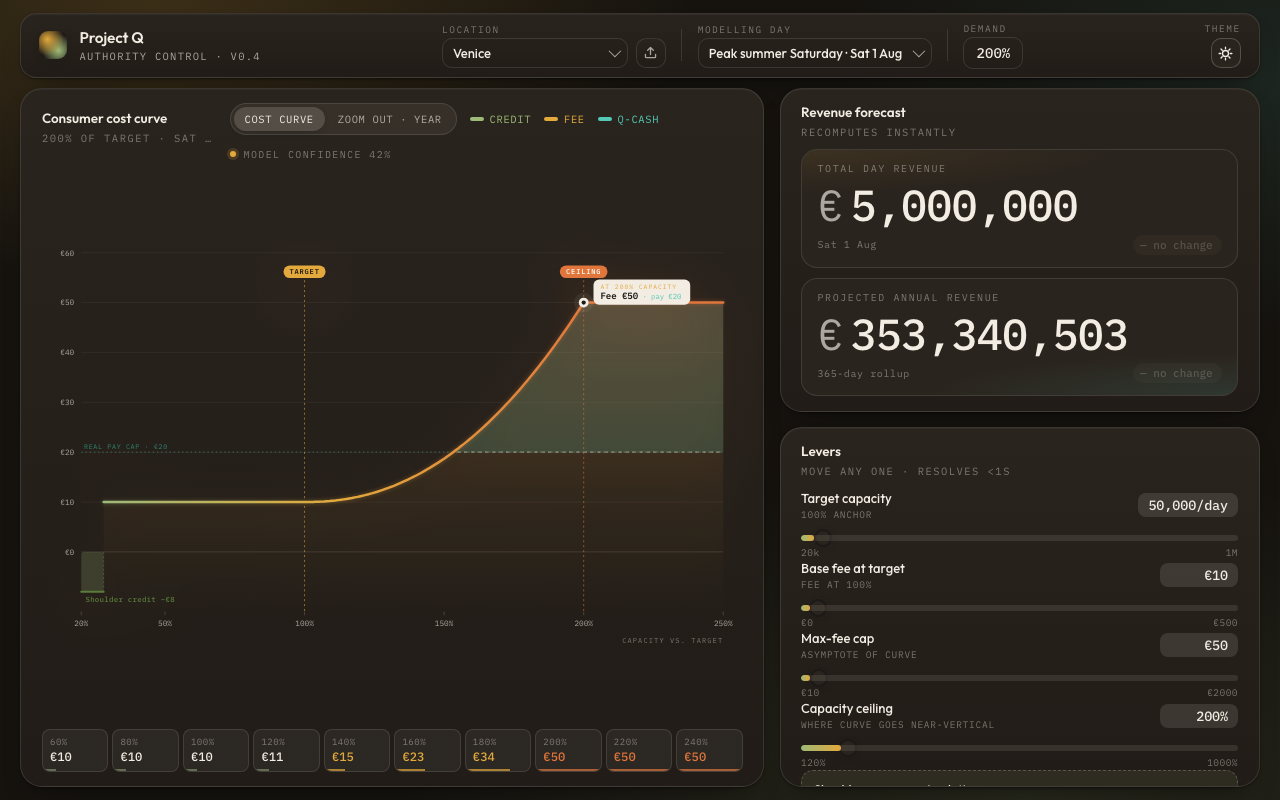
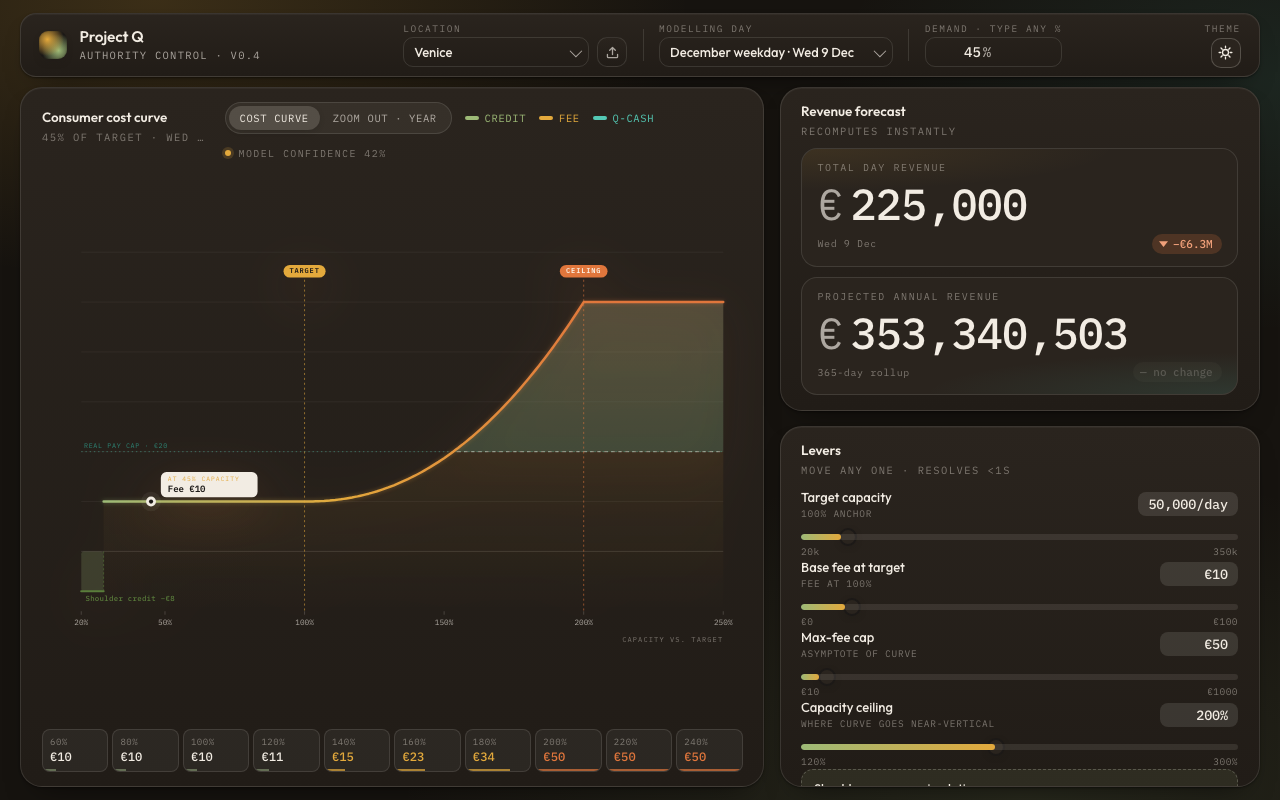
Dashboard: lower lever maxes, drop y-axis € labels, free-form demand input
- Lever max bounds reduced (target_capacity 1M->350k, base_fee 500->100,
  max_fee_cap 2000->1000, ceiling_pct 1000->300), set in the DPM payload.
- Removed the left-hand € number labels on the cost-curve y-axis (gridlines
  stay; values are carried by the markers + active-day callout).
- Modelling day is now free-form: the Demand field is an editable % input.
  Typing a value sets state.customDemand, which overrides the selected day_type
  everywhere (curve dot, callout, revenue) via activeDayType(); picking a preset
  day clears it. New setDemand() command exposed on window.ProjectQ.

diff --git a/src/control/control.css b/src/control/control.css
@@ -203,6 +203,57 @@
   text-align: center;
 }
 
+/* Editable free-form demand input (replaces the read-only chip). */
+.qctl-root .tb-demand-input {
+  display: inline-flex;
+  align-items: center;
+  gap: 2px;
+  padding: 5px 9px;
+  border-radius: 10px;
+  border: 1px solid var(--hairline);
+  background: transparent;
+  transition: border-color 0.15s ease, background 0.15s ease;
+}
+.qctl-root .tb-demand-input:hover {
+  border-color: var(--hairline-strong);
+}
+.qctl-root .tb-demand-input:focus-within {
+  border-color: var(--ochre);
+  background: rgba(227, 169, 60, 0.06);
+}
+.qctl-root .tb-demand-input.custom {
+  border-color: var(--ochre);
+}
+.qctl-root .tb-demand-input input {
+  appearance: none;
+  -webkit-appearance: none;
+  -moz-appearance: textfield;
+  width: 46px;
+  border: 0;
+  background: transparent;
+  font-family: var(--font-mono);
+  font-size: 14px;
+  font-weight: 500;
+  font-variant-numeric: tabular-nums;
+  color: var(--ink);
+  text-align: right;
+  padding: 0;
+}
+.qctl-root .tb-demand-input input:focus {
+  outline: none;
+}
+.qctl-root .tb-demand-input input::-webkit-outer-spin-button,
+.qctl-root .tb-demand-input input::-webkit-inner-spin-button {
+  -webkit-appearance: none;
+  margin: 0;
+}
+.qctl-root .tb-demand-suffix {
+  font-family: var(--font-mono);
+  font-size: 14px;
+  font-weight: 500;
+  color: var(--ink-mute);
+}
+
 .qctl-root .phase-toggle {
   display: inline-flex;
   background: rgba(28, 25, 23, 0.04);

diff --git a/src/control/state.ts b/src/control/state.ts
@@ -60,6 +60,9 @@ export type State = {
   seasonal: SeasonalBin[];
 
   activeDay: string;
+  // Free-form modelled demand. When non-null the operator has typed a demand %
+  // directly and it overrides the selected day_type's demand_pct everywhere.
+  customDemand: number | null;
 
   // delta-tracking internals
   __lastDayRev: number;
@@ -71,7 +74,7 @@ export type State = {
 
 export type Payload = Omit<
   State,
-  "activeDay" | "__lastDayRev" | "__lastAnnualRev" | "__prevDayRev" | "__prevAnnualRev" | "__deltaSeq"
+  "activeDay" | "customDemand" | "__lastDayRev" | "__lastAnnualRev" | "__prevDayRev" | "__prevAnnualRev" | "__deltaSeq"
 > & {
   activeDay?: string;
   // payload may omit phase; defaults to Year 1 / real pay cap 20
@@ -155,6 +158,15 @@ export function annualRevenue(snap: State = requireState()): number {
 }
 
 export function activeDayType(snap: State = requireState()): DayType {
+  // A typed free-form demand overrides the selected preset day everywhere.
+  if (snap.customDemand != null) {
+    return {
+      id: "__custom",
+      label: "Custom demand",
+      date: "Free-form",
+      demand_pct: snap.customDemand,
+    };
+  }
   return snap.day_types.find((d) => d.id === snap.activeDay) || snap.day_types[0];
 }
 
@@ -266,6 +278,7 @@ export function loadPayload(input: Payload | string): void {
   // pricing calc reads it. See normalizeCurveExponent() above for the rationale.
   normalizeCurveExponent(next.curve.shape);
   if (!next.activeDay) next.activeDay = next.day_types[0].id;
+  next.customDemand = null;
   if (!next.phase) next.phase = { year: 1, real_pay_cap: 20 };
   // Initialise delta-tracking fields against the new state.
   next.__lastDayRev = 0;
@@ -294,9 +307,23 @@ export function setLever(id: LeverId | string, value: number): void {
 
 export function setDayType(id: string): void {
   const s = requireState();
-  if (s.activeDay === id) return;
+  // Selecting a preset day clears any free-form demand override.
+  if (s.activeDay === id && s.customDemand == null) return;
   bumpDeltas();
   s.activeDay = id;
+  s.customDemand = null;
+  commitDeltas();
+  notify();
+}
+
+/** Free-form modelled demand (%). Pass null to revert to the selected day_type.
+ *  Clamped to a sane 0–400% range. */
+export function setDemand(pct: number | null): void {
+  const s = requireState();
+  const next = pct == null ? null : Math.max(0, Math.min(400, Math.round(Number(pct))));
+  if (s.customDemand === next) return;
+  bumpDeltas();
+  s.customDemand = next;
   commitDeltas();
   notify();
 }
@@ -363,6 +390,7 @@ export type ProjectQApi = {
   loadPayload: typeof loadPayload;
   setLever: typeof setLever;
   setDayType: typeof setDayType;
+  setDemand: typeof setDemand;
   setPhase: typeof setPhase;
   setRebate: typeof setRebate;
   getState: typeof getState;
@@ -381,6 +409,7 @@ export function installGlobalApi(): void {
     loadPayload,
     setLever,
     setDayType,
+    setDemand,
     setPhase,
     setRebate,
     getState,

diff --git a/src/control/TopBar.tsx b/src/control/TopBar.tsx
@@ -1,6 +1,6 @@
 import { useEffect, useRef, useState } from "react";
 import { useStore } from "./useStore";
-import { setDayType, loadPayload, getState } from "./state";
+import { setDayType, setDemand, loadPayload, getState } from "./state";
 
 type Toast = { kind: "ok" | "err"; msg: string } | null;
 
@@ -79,8 +79,11 @@ export function TopBar({ dark, onToggleDark }: TopBarProps) {
   }, []);
 
   if (!state) return null;
-  const activeDay =
+  const selectedDay =
     state.day_types.find((d) => d.id === state.activeDay) || state.day_types[0];
+  const isCustom = state.customDemand != null;
+  // Effective modelled demand: the typed free-form value, else the preset day's.
+  const demand = isCustom ? (state.customDemand as number) : selectedDay.demand_pct;
 
   return (
     <>
@@ -159,9 +162,12 @@ export function TopBar({ dark, onToggleDark }: TopBarProps) {
             <div className="tb-label">Modelling day</div>
             <div className="tb-select">
               <select
-                value={state.activeDay}
+                value={isCustom ? "__custom" : state.activeDay}
                 onChange={(e) => setDayType(e.target.value)}
               >
+                {isCustom && (
+                  <option value="__custom">Custom demand · {demand}%</option>
+                )}
                 {state.day_types.map((d) => (
                   <option key={d.id} value={d.id}>
                     {d.label} · {d.date}
@@ -174,8 +180,22 @@ export function TopBar({ dark, onToggleDark }: TopBarProps) {
           <div className="tb-divider" />
 
           <div className="tb-field">
-            <div className="tb-label">Demand</div>
-            <div className="tb-demand-chip">{activeDay.demand_pct}%</div>
+            <div className="tb-label">Demand · type any %</div>
+            <div className={"tb-demand-input" + (isCustom ? " custom" : "")}>
+              <input
+                type="number"
+                min={0}
+                max={400}
+                step={5}
+                value={demand}
+                onChange={(e) => {
+                  const v = e.target.value;
+                  setDemand(v === "" ? null : Number(v));
+                }}
+                aria-label="Modelled demand percentage"
+              />
+              <span className="tb-demand-suffix">%</span>
+            </div>
           </div>
         </div>
 

diff --git a/src/control/CurvePanel.tsx b/src/control/CurvePanel.tsx
@@ -1,6 +1,6 @@
 import { useState } from "react";
 import { useStore } from "./useStore";
-import { feeAtPct, payAtPct, type State } from "./state";
+import { feeAtPct, payAtPct, activeDayType, type State } from "./state";
 import { fmtEur } from "./format";
 
 function leverV(state: State, id: string): number {
@@ -77,7 +77,7 @@ function CurveChart() {
 
   // Active day dot + callout.
   const activeDay =
-    state.day_types.find((d) => d.id === state.activeDay) || state.day_types[0];
+    activeDayType(state);
   const activeFee = feeAtPct(activeDay.demand_pct, state);
   const activePay = payAtPct(activeDay.demand_pct, state);
   const ax = xS(Math.min(xMax, Math.max(xMin, activeDay.demand_pct)));
@@ -115,7 +115,8 @@ function CurveChart() {
           </filter>
         </defs>
 
-        {/* Horizontal gridlines + €-axis ticks */}
+        {/* Horizontal gridlines (left-hand €-axis number labels intentionally
+            omitted — the curve markers + active-day callout carry the values). */}
         {yGrid.map((v) => (
           <g key={"yg-" + v}>
             <line
@@ -126,14 +127,6 @@ function CurveChart() {
               stroke="currentColor"
               opacity={v === 0 ? 0.18 : 0.07}
             />
-            <text
-              x={padL - 10}
-              y={yS(v) + 4}
-              textAnchor="end"
-              className="curve-tick-label"
-            >
-              €{v}
-            </text>
           </g>
         ))}
 
@@ -473,7 +466,7 @@ function YearCurve() {
   const xTicks = [0, 0.25, 0.5, 0.75, 1].map((f) => Math.round(totalDays * f));
 
   const activeDay =
-    state.day_types.find((d) => d.id === state.activeDay) || state.day_types[0];
+    activeDayType(state);
   const activeY = yS(Math.min(yMax, activeDay.demand_pct));
 
   return (
@@ -661,7 +654,7 @@ export function CurvePanel() {
   const [view, setView] = useState<"cost" | "year">("cost");
   if (!state) return null;
   const activeDay =
-    state.day_types.find((d) => d.id === state.activeDay) || state.day_types[0];
+    activeDayType(state);
   const totalDays = state.seasonal.reduce((a, s) => a + s.days, 0);
   return (
     <section className="panel panel-pad curve-panel">

diff --git a/STATUS.md b/STATUS.md
@@ -24,3 +24,4 @@
 [2026-05-29T02:40:29Z] · changes: lever maxes↑ (1M/500/2000/1000), dark mode, annual "zoom out" view, removed YR1/2/3; build clean; local verify pass; pushing · ca7eda4
 [2026-05-29T02:43:14Z] · fixed light-mode --ink-inverse token; rebuild clean; re-verify; committing · e3ded0a
 [2026-05-29T02:45:21Z] · DONE · prod 200; live: lever maxes 1M/500/2000/1000, dark mode + "zoom out" year view live, YR1/2/3 removed, conf 42 exp 2.2, 0 console errors · ddadb8e
+[2026-05-30T02:50:44Z] · lever maxes 350k/100/1000/300; removed y-axis € labels; modelling-day now free-form demand input (+setDemand API); build clean; local verify pass; pushing · adb486c